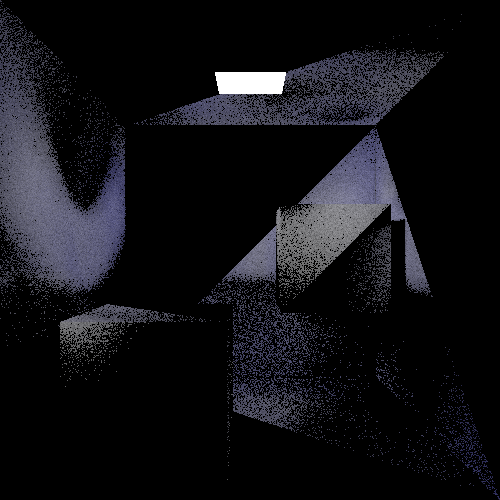
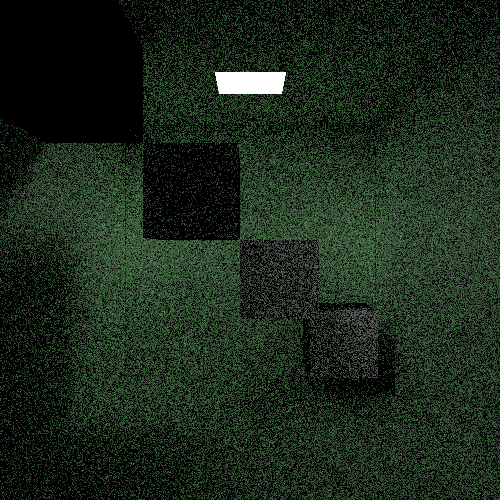
jojo

diff --git a/main.go b/main.go
@@ -93,6 +93,14 @@ func max (a float64, b float64) float64 {
 	return a
 }
 
+func min (a float64, b float64) float64 {
+	if a > b {
+		return b
+	}
+
+	return a
+}
+
 func cosine_hemisphere_sample() vec3.Vec3 {
 	u1 := rand_float()
     r := math.Sqrt(u1)
@@ -102,6 +110,12 @@ func cosine_hemisphere_sample() vec3.Vec3 {
     y := r * math.Sin(theta)
  
     return vec3.Vec3{x, y, math.Sqrt(max(0.0, 1.0 - u1))}
+}
+
+func translate(a vec3.Vec3) {
+	for i := 0; i < len(objects); i++ {
+		objects[i].Move(-a.X, -a.Y, -a.Z)
+	}
 }
 
 func save_frame_buffer_to_png(frame_buffer [][]vec3.Vec3, output_name string) {
@@ -199,47 +213,47 @@ func main() {
 	room := object.Object {
 		[](object.Triangle) {
 			// back wall
-			object.Triangle{vec3.Vec3{room_size, 0, room_size}, vec3.Vec3{0, room_size, room_size}, vec3.Vec3{0, 0, room_size}},
-			object.Triangle{vec3.Vec3{room_size, 0, room_size}, vec3.Vec3{0, room_size, room_size}, vec3.Vec3{room_size, room_size, room_size}},
+			object.Triangle{vec3.Vec3{0, 0, room_size}, vec3.Vec3{0, room_size, room_size}, vec3.Vec3{room_size, room_size, room_size}},
+			object.Triangle{vec3.Vec3{0, 0, room_size}, vec3.Vec3{room_size, room_size, room_size}, vec3.Vec3{room_size, 0, room_size}},
 			// left wall
-			object.Triangle{vec3.Vec3{0, 0, 0}, vec3.Vec3{0, room_size, 0}, vec3.Vec3{0, 0, room_size}},
-			object.Triangle{vec3.Vec3{0, 0, room_size}, vec3.Vec3{0, room_size, 0}, vec3.Vec3{0, room_size, room_size}},
+			object.Triangle{vec3.Vec3{0, 0, 0}, vec3.Vec3{0, room_size, 0}, vec3.Vec3{0, room_size, room_size}},
+			object.Triangle{vec3.Vec3{0, 0, 0}, vec3.Vec3{0, room_size, room_size}, vec3.Vec3{0, 0, room_size}},
 			// right wall
-			object.Triangle{vec3.Vec3{room_size, room_size, 0}, vec3.Vec3{room_size, 0, room_size}, vec3.Vec3{room_size, 0, 0}},
-			object.Triangle{vec3.Vec3{room_size, room_size, 0}, vec3.Vec3{room_size, 0, room_size}, vec3.Vec3{room_size, room_size, room_size}},
+			object.Triangle{vec3.Vec3{room_size, room_size, room_size}, vec3.Vec3{room_size, room_size, 0}, vec3.Vec3{room_size, 0, 0}},
+			object.Triangle{vec3.Vec3{room_size, 0, room_size}, vec3.Vec3{room_size, room_size, room_size}, vec3.Vec3{room_size, 0, 0}},
 			// floor
-			object.Triangle{vec3.Vec3{room_size, room_size, 0}, vec3.Vec3{room_size, room_size, room_size}, vec3.Vec3{0, room_size, room_size}},
-			object.Triangle{vec3.Vec3{room_size, room_size, 0}, vec3.Vec3{0, room_size, 0}, vec3.Vec3{0, room_size, room_size}},
+			object.Triangle{vec3.Vec3{0, 0, 0}, vec3.Vec3{0, 0, room_size}, vec3.Vec3{room_size, 0, room_size}},
+			object.Triangle{vec3.Vec3{0, 0, 0}, vec3.Vec3{room_size, 0, room_size}, vec3.Vec3{room_size, 0, 0}},
 			// ceiling
-			object.Triangle{vec3.Vec3{0, 0, 0}, vec3.Vec3{room_size, 0, 0}, vec3.Vec3{0, 0, room_size}},
-			object.Triangle{vec3.Vec3{room_size, 0, room_size}, vec3.Vec3{room_size, 0, 0}, vec3.Vec3{0, 0, room_size}},
+			object.Triangle{vec3.Vec3{0, room_size, 0}, vec3.Vec3{room_size, room_size, 0}, vec3.Vec3{0, room_size, room_size}},
+			object.Triangle{vec3.Vec3{0, room_size, room_size}, vec3.Vec3{room_size, room_size, 0}, vec3.Vec3{room_size, room_size, room_size}},
 		},
 		// set material
 		room_material,
 	}
 
-	cuboid_size := 350.0/2
+	cuboid_size := 350.0/3
 
 	cuboid := object.Object {
 		[](object.Triangle) {
-			// back plane
-			object.Triangle{vec3.Vec3{cuboid_size, 0, cuboid_size}, vec3.Vec3{0, cuboid_size, cuboid_size}, vec3.Vec3{0, 0, cuboid_size}},
-			object.Triangle{vec3.Vec3{cuboid_size, 0, cuboid_size}, vec3.Vec3{0, cuboid_size, cuboid_size}, vec3.Vec3{cuboid_size, cuboid_size, cuboid_size}},
-			// left plane
-			object.Triangle{vec3.Vec3{0, 0, 0}, vec3.Vec3{0, cuboid_size, 0}, vec3.Vec3{0, 0, cuboid_size}},
-			object.Triangle{vec3.Vec3{0, 0, cuboid_size}, vec3.Vec3{0, cuboid_size, 0}, vec3.Vec3{0, cuboid_size, cuboid_size}},
-			// right plane
-			object.Triangle{vec3.Vec3{cuboid_size, cuboid_size, 0}, vec3.Vec3{cuboid_size, 0, cuboid_size}, vec3.Vec3{cuboid_size, 0, 0}},
-			object.Triangle{vec3.Vec3{cuboid_size, cuboid_size, 0}, vec3.Vec3{cuboid_size, 0, cuboid_size}, vec3.Vec3{cuboid_size, cuboid_size, cuboid_size}},
-			// bottom plane
-			object.Triangle{vec3.Vec3{cuboid_size, cuboid_size, 0}, vec3.Vec3{cuboid_size, cuboid_size, cuboid_size}, vec3.Vec3{0, cuboid_size, cuboid_size}},
-			object.Triangle{vec3.Vec3{cuboid_size, cuboid_size, 0}, vec3.Vec3{0, cuboid_size, 0}, vec3.Vec3{0, cuboid_size, cuboid_size}},
-			// top plane
-			object.Triangle{vec3.Vec3{0, 0, 0}, vec3.Vec3{cuboid_size, 0, 0}, vec3.Vec3{0, 0, cuboid_size}},
-			object.Triangle{vec3.Vec3{cuboid_size, 0, cuboid_size}, vec3.Vec3{cuboid_size, 0, 0}, vec3.Vec3{0, 0, cuboid_size}},
+			// back wall
+			object.Triangle{vec3.Vec3{0, 0, cuboid_size}, vec3.Vec3{0, cuboid_size, cuboid_size}, vec3.Vec3{cuboid_size, cuboid_size, cuboid_size}},
+			object.Triangle{vec3.Vec3{0, 0, cuboid_size}, vec3.Vec3{cuboid_size, cuboid_size, cuboid_size}, vec3.Vec3{cuboid_size, 0, cuboid_size}},
+			// left wall
+			object.Triangle{vec3.Vec3{0, 0, 0}, vec3.Vec3{0, cuboid_size, 0}, vec3.Vec3{0, cuboid_size, cuboid_size}},
+			object.Triangle{vec3.Vec3{0, 0, 0}, vec3.Vec3{0, cuboid_size, cuboid_size}, vec3.Vec3{0, 0, cuboid_size}},
+			// right wall
+			object.Triangle{vec3.Vec3{cuboid_size, cuboid_size, cuboid_size}, vec3.Vec3{cuboid_size, cuboid_size, 0}, vec3.Vec3{cuboid_size, 0, 0}},
+			object.Triangle{vec3.Vec3{cuboid_size, 0, cuboid_size}, vec3.Vec3{cuboid_size, cuboid_size, cuboid_size}, vec3.Vec3{cuboid_size, 0, 0}},
+			// floor
+			object.Triangle{vec3.Vec3{0, 0, 0}, vec3.Vec3{0, 0, cuboid_size}, vec3.Vec3{cuboid_size, 0, cuboid_size}},
+			object.Triangle{vec3.Vec3{0, 0, 0}, vec3.Vec3{cuboid_size, 0, cuboid_size}, vec3.Vec3{cuboid_size, 0, 0}},
+			// ceiling
+			object.Triangle{vec3.Vec3{0, cuboid_size, 0}, vec3.Vec3{cuboid_size, cuboid_size, 0}, vec3.Vec3{0, cuboid_size, cuboid_size}},
+			object.Triangle{vec3.Vec3{0, cuboid_size, cuboid_size}, vec3.Vec3{cuboid_size, cuboid_size, 0}, vec3.Vec3{cuboid_size, cuboid_size, cuboid_size}},
 			// front plane
-			object.Triangle{vec3.Vec3{0, 0, 0}, vec3.Vec3{cuboid_size, 0, 0}, vec3.Vec3{0, cuboid_size, 0}},
-			object.Triangle{vec3.Vec3{0, cuboid_size, 0}, vec3.Vec3{cuboid_size, cuboid_size, 0}, vec3.Vec3{cuboid_size, 0, 0}},
+			object.Triangle{vec3.Vec3{0, 0, 0}, vec3.Vec3{0, cuboid_size, 0}, vec3.Vec3{cuboid_size, cuboid_size, 0}},
+			object.Triangle{vec3.Vec3{0, 0, 0}, vec3.Vec3{cuboid_size, cuboid_size, 0}, vec3.Vec3{cuboid_size, 0, 0}},
 		},
 		// set material
 		box_material,
@@ -247,32 +261,84 @@ func main() {
 
 	cuboid2 := object.Object {
 		[](object.Triangle) {
-			// back plane
-			object.Triangle{vec3.Vec3{cuboid_size, 0, cuboid_size}, vec3.Vec3{0, cuboid_size, cuboid_size}, vec3.Vec3{0, 0, cuboid_size}},
-			object.Triangle{vec3.Vec3{cuboid_size, 0, cuboid_size}, vec3.Vec3{0, cuboid_size, cuboid_size}, vec3.Vec3{cuboid_size, cuboid_size, cuboid_size}},
-			// left plane
-			object.Triangle{vec3.Vec3{0, 0, 0}, vec3.Vec3{0, cuboid_size, 0}, vec3.Vec3{0, 0, cuboid_size}},
-			object.Triangle{vec3.Vec3{0, 0, cuboid_size}, vec3.Vec3{0, cuboid_size, 0}, vec3.Vec3{0, cuboid_size, cuboid_size}},
-			// right plane
-			object.Triangle{vec3.Vec3{cuboid_size, cuboid_size, 0}, vec3.Vec3{cuboid_size, 0, cuboid_size}, vec3.Vec3{cuboid_size, 0, 0}},
-			object.Triangle{vec3.Vec3{cuboid_size, cuboid_size, 0}, vec3.Vec3{cuboid_size, 0, cuboid_size}, vec3.Vec3{cuboid_size, cuboid_size, cuboid_size}},
-			// bottom plane
-			object.Triangle{vec3.Vec3{cuboid_size, cuboid_size, 0}, vec3.Vec3{cuboid_size, cuboid_size, cuboid_size}, vec3.Vec3{0, cuboid_size, cuboid_size}},
-			object.Triangle{vec3.Vec3{cuboid_size, cuboid_size, 0}, vec3.Vec3{0, cuboid_size, 0}, vec3.Vec3{0, cuboid_size, cuboid_size}},
-			// top plane
-			object.Triangle{vec3.Vec3{0, 0, 0}, vec3.Vec3{cuboid_size, 0, 0}, vec3.Vec3{0, 0, cuboid_size}},
-			object.Triangle{vec3.Vec3{cuboid_size, 0, cuboid_size}, vec3.Vec3{cuboid_size, 0, 0}, vec3.Vec3{0, 0, cuboid_size}},
+			// back wall
+			object.Triangle{vec3.Vec3{0, 0, cuboid_size}, vec3.Vec3{0, cuboid_size, cuboid_size}, vec3.Vec3{cuboid_size, cuboid_size, cuboid_size}},
+			object.Triangle{vec3.Vec3{0, 0, cuboid_size}, vec3.Vec3{cuboid_size, cuboid_size, cuboid_size}, vec3.Vec3{cuboid_size, 0, cuboid_size}},
+			// left wall
+			object.Triangle{vec3.Vec3{0, 0, 0}, vec3.Vec3{0, cuboid_size, 0}, vec3.Vec3{0, cuboid_size, cuboid_size}},
+			object.Triangle{vec3.Vec3{0, 0, 0}, vec3.Vec3{0, cuboid_size, cuboid_size}, vec3.Vec3{0, 0, cuboid_size}},
+			// right wall
+			object.Triangle{vec3.Vec3{cuboid_size, cuboid_size, cuboid_size}, vec3.Vec3{cuboid_size, cuboid_size, 0}, vec3.Vec3{cuboid_size, 0, 0}},
+			object.Triangle{vec3.Vec3{cuboid_size, 0, cuboid_size}, vec3.Vec3{cuboid_size, cuboid_size, cuboid_size}, vec3.Vec3{cuboid_size, 0, 0}},
+			// floor
+			object.Triangle{vec3.Vec3{0, 0, 0}, vec3.Vec3{0, 0, cuboid_size}, vec3.Vec3{cuboid_size, 0, cuboid_size}},
+			object.Triangle{vec3.Vec3{0, 0, 0}, vec3.Vec3{cuboid_size, 0, cuboid_size}, vec3.Vec3{cuboid_size, 0, 0}},
+			// ceiling
+			object.Triangle{vec3.Vec3{0, cuboid_size, 0}, vec3.Vec3{cuboid_size, cuboid_size, 0}, vec3.Vec3{0, cuboid_size, cuboid_size}},
+			object.Triangle{vec3.Vec3{0, cuboid_size, cuboid_size}, vec3.Vec3{cuboid_size, cuboid_size, 0}, vec3.Vec3{cuboid_size, cuboid_size, cuboid_size}},
 			// front plane
-			object.Triangle{vec3.Vec3{0, 0, 0}, vec3.Vec3{cuboid_size, 0, 0}, vec3.Vec3{0, cuboid_size, 0}},
-			object.Triangle{vec3.Vec3{0, cuboid_size, 0}, vec3.Vec3{cuboid_size, cuboid_size, 0}, vec3.Vec3{cuboid_size, 0, 0}},
+			object.Triangle{vec3.Vec3{0, 0, 0}, vec3.Vec3{0, cuboid_size, 0}, vec3.Vec3{cuboid_size, cuboid_size, 0}},
+			object.Triangle{vec3.Vec3{0, 0, 0}, vec3.Vec3{cuboid_size, cuboid_size, 0}, vec3.Vec3{cuboid_size, 0, 0}},
+		},
+		// set material
+		box_material,
+	}
+
+	cuboid3 := object.Object {
+		[](object.Triangle) {
+			// back wall
+			object.Triangle{vec3.Vec3{0, 0, cuboid_size}, vec3.Vec3{0, cuboid_size, cuboid_size}, vec3.Vec3{cuboid_size, cuboid_size, cuboid_size}},
+			object.Triangle{vec3.Vec3{0, 0, cuboid_size}, vec3.Vec3{cuboid_size, cuboid_size, cuboid_size}, vec3.Vec3{cuboid_size, 0, cuboid_size}},
+			// left wall
+			object.Triangle{vec3.Vec3{0, 0, 0}, vec3.Vec3{0, cuboid_size, 0}, vec3.Vec3{0, cuboid_size, cuboid_size}},
+			object.Triangle{vec3.Vec3{0, 0, 0}, vec3.Vec3{0, cuboid_size, cuboid_size}, vec3.Vec3{0, 0, cuboid_size}},
+			// right wall
+			object.Triangle{vec3.Vec3{cuboid_size, cuboid_size, cuboid_size}, vec3.Vec3{cuboid_size, cuboid_size, 0}, vec3.Vec3{cuboid_size, 0, 0}},
+			object.Triangle{vec3.Vec3{cuboid_size, 0, cuboid_size}, vec3.Vec3{cuboid_size, cuboid_size, cuboid_size}, vec3.Vec3{cuboid_size, 0, 0}},
+			// floor
+			object.Triangle{vec3.Vec3{0, 0, 0}, vec3.Vec3{0, 0, cuboid_size}, vec3.Vec3{cuboid_size, 0, cuboid_size}},
+			object.Triangle{vec3.Vec3{0, 0, 0}, vec3.Vec3{cuboid_size, 0, cuboid_size}, vec3.Vec3{cuboid_size, 0, 0}},
+			// ceiling
+			object.Triangle{vec3.Vec3{0, cuboid_size, 0}, vec3.Vec3{cuboid_size, cuboid_size, 0}, vec3.Vec3{0, cuboid_size, cuboid_size}},
+			object.Triangle{vec3.Vec3{0, cuboid_size, cuboid_size}, vec3.Vec3{cuboid_size, cuboid_size, 0}, vec3.Vec3{cuboid_size, cuboid_size, cuboid_size}},
+			// front plane
+			object.Triangle{vec3.Vec3{0, 0, 0}, vec3.Vec3{0, cuboid_size, 0}, vec3.Vec3{cuboid_size, cuboid_size, 0}},
+			object.Triangle{vec3.Vec3{0, 0, 0}, vec3.Vec3{cuboid_size, cuboid_size, 0}, vec3.Vec3{cuboid_size, 0, 0}},
+		},
+		// set material
+		box_material,
+	}
+
+	cuboid4 := object.Object {
+		[](object.Triangle) {
+			// back wall
+			object.Triangle{vec3.Vec3{0, 0, cuboid_size}, vec3.Vec3{0, cuboid_size, cuboid_size}, vec3.Vec3{cuboid_size, cuboid_size, cuboid_size}},
+			object.Triangle{vec3.Vec3{0, 0, cuboid_size}, vec3.Vec3{cuboid_size, cuboid_size, cuboid_size}, vec3.Vec3{cuboid_size, 0, cuboid_size}},
+			// left wall
+			object.Triangle{vec3.Vec3{0, 0, 0}, vec3.Vec3{0, cuboid_size, 0}, vec3.Vec3{0, cuboid_size, cuboid_size}},
+			object.Triangle{vec3.Vec3{0, 0, 0}, vec3.Vec3{0, cuboid_size, cuboid_size}, vec3.Vec3{0, 0, cuboid_size}},
+			// right wall
+			object.Triangle{vec3.Vec3{cuboid_size, cuboid_size, cuboid_size}, vec3.Vec3{cuboid_size, cuboid_size, 0}, vec3.Vec3{cuboid_size, 0, 0}},
+			object.Triangle{vec3.Vec3{cuboid_size, 0, cuboid_size}, vec3.Vec3{cuboid_size, cuboid_size, cuboid_size}, vec3.Vec3{cuboid_size, 0, 0}},
+			// floor
+			object.Triangle{vec3.Vec3{0, 0, 0}, vec3.Vec3{0, 0, cuboid_size}, vec3.Vec3{cuboid_size, 0, cuboid_size}},
+			object.Triangle{vec3.Vec3{0, 0, 0}, vec3.Vec3{cuboid_size, 0, cuboid_size}, vec3.Vec3{cuboid_size, 0, 0}},
+			// ceiling
+			object.Triangle{vec3.Vec3{0, cuboid_size, 0}, vec3.Vec3{cuboid_size, cuboid_size, 0}, vec3.Vec3{0, cuboid_size, cuboid_size}},
+			object.Triangle{vec3.Vec3{0, cuboid_size, cuboid_size}, vec3.Vec3{cuboid_size, cuboid_size, 0}, vec3.Vec3{cuboid_size, cuboid_size, cuboid_size}},
+			// front plane
+			object.Triangle{vec3.Vec3{0, 0, 0}, vec3.Vec3{0, cuboid_size, 0}, vec3.Vec3{cuboid_size, cuboid_size, 0}},
+			object.Triangle{vec3.Vec3{0, 0, 0}, vec3.Vec3{cuboid_size, cuboid_size, 0}, vec3.Vec3{cuboid_size, 0, 0}},
 		},
 		// set material
 		box_material,
 	}
 
 	// example of how you can move an object
-	cuboid.Move(600/2, 350/2, 600/2)
-	cuboid2.Move(100/2, 650/2, 50/2)
+	cuboid.Move(1, 1, 0)
+	cuboid2.Move(1 + cuboid_size, 1 + cuboid_size, 1 + cuboid_size)
+	cuboid3.Move(1 + 2*cuboid_size, 1 + 2*cuboid_size, 1 + 2*cuboid_size)
+	cuboid4.Move(1 + 3*cuboid_size, 1 + 3*cuboid_size, 1 + 3*cuboid_size)
 
 	// output dimensions
 	width := 1000/2
@@ -288,19 +354,18 @@ func main() {
 	// define light sources
 	spotlight1_radius := 200.0/2
 
+	depth := height
+
 	lamp1 := object.Object {
 		[]object.Triangle {
 			object.Triangle {
-				vec3.Vec3{float64(width/2) - float64(spotlight1_radius/2), 0.0000002, float64(width/2) - float64(spotlight1_radius/2)},
-				vec3.Vec3{float64(width/2) - float64(spotlight1_radius/2), 0.0000002, float64(width/2) + float64(spotlight1_radius/2)},
-				vec3.Vec3{float64(width/2) + float64(spotlight1_radius/2), 0.0000002, float64(width/2) + float64(spotlight1_radius/2)},
-			},
+				vec3.Vec3{float64(width/2) - float64(spotlight1_radius/2), 0.0000001, float64(depth/2) - float64(spotlight1_radius/2)}, 
+				vec3.Vec3{float64(width/2) + float64(spotlight1_radius/2), 0.0000001, float64(width/2) - float64(spotlight1_radius/2)}, 
+				vec3.Vec3{float64(width/2) - float64(spotlight1_radius/2), 0.0000001, float64(depth/2) + float64(spotlight1_radius/2)}},
 			object.Triangle {
-
-				vec3.Vec3{float64(width/2) + float64(spotlight1_radius/2), 0.0000002, float64(width/2) + float64(spotlight1_radius/2)},
-				vec3.Vec3{float64(width/2) - float64(spotlight1_radius/2), 0.0000002, float64(width/2) - float64(spotlight1_radius/2)},
-				vec3.Vec3{float64(width/2) + float64(spotlight1_radius/2), 0.0000002, float64(width/2) - float64(spotlight1_radius/2)},
-			},
+				vec3.Vec3{float64(width/2) - float64(spotlight1_radius/2), 0.0000001, float64(depth/2) + float64(spotlight1_radius/2)}, 
+				vec3.Vec3{float64(width/2) + float64(spotlight1_radius/2), 0.0000001, float64(depth/2) - float64(spotlight1_radius/2)}, 
+				vec3.Vec3{float64(width/2) + float64(spotlight1_radius/2), 0.0000001, float64(depth/2) + float64(spotlight1_radius/2)}},
 		},
 		// set material
 		light_material,
@@ -308,7 +373,9 @@ func main() {
 
 	_ = cuboid
 	_ = cuboid2
-	objects = append(objects, room, cuboid2, lamp1)
+	_ = cuboid3
+	_ = cuboid4
+	objects = append(objects, room, cuboid, cuboid2, cuboid3, cuboid4, lamp1)
 
 	// CPU profiling by default
 	// defer profile.Start().Stop()
@@ -322,7 +389,7 @@ func main() {
 	// how many times a single pixel is sampled
 	pixel_samples, err := strconv.Atoi(string(os.Args[1]))
 	// how many times a ray bounces
-	hops               := 3
+	hops               := 4
 	
 	renderer.SetDrawColor(0, 0, 0, 255)
 	renderer.Clear()
@@ -390,6 +457,9 @@ func render_frame_thread(start_x int, end_x int, start_y int, end_y int, camera 
 					// ONLY USE closest_triangle IF INTERSECTION OCCURRED
 					// ---------------------------------------------------------------------------
 
+					n := surface_normal(&surface_triangle)
+
+					// lambert shading
 					cur_color.Add(pixel_color)
 					cur_weight += emission
 
@@ -405,13 +475,15 @@ func render_frame_thread(start_x int, end_x int, start_y int, end_y int, camera 
 					origin.Add(direction)
 
 					// <update direction>
-					n := surface_normal(&surface_triangle)
+					direction = vec3.Vec3{rand_neg_float(), rand_neg_float(), rand_neg_float()}
 
-					direction = n
-					direction.Rotate_x(rand_neg_float()*89)
-					direction.Rotate_y(rand_neg_float()*89)
-					direction.Rotate_z(rand_neg_float()*89)
-					direction.Normalize()
+					for {
+						direction.Normalize()
+						if direction.Dot(n) > 0 {
+							break
+						}
+						direction = vec3.Vec3{rand_neg_float(), rand_neg_float(), rand_neg_float()}
+					}
 					// </update direction>
 				}
 
@@ -430,7 +502,10 @@ func render_frame_thread(start_x int, end_x int, start_y int, end_y int, camera 
 			if color.Z > color.Y {
 				_max = color.Z
 			}
-			color.Scale(255.0/_max)
+
+			if _max > 255 {
+				color.Scale(255.0/_max)
+			}
 
 			frame_buffer[x][y] = color
 			// gamma correction
